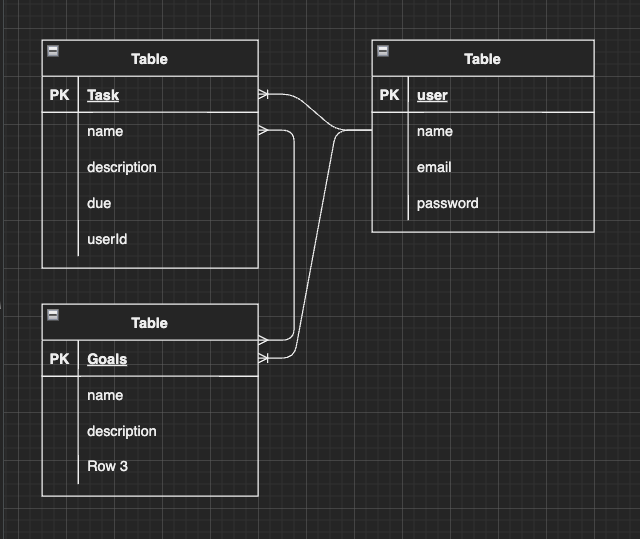
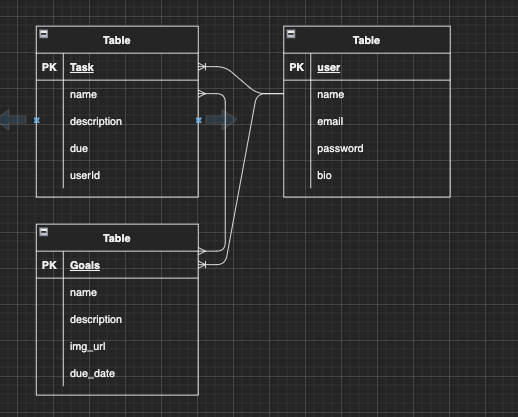
Updated ERD

diff --git a/controllers/users.js b/controllers/users.js
@@ -3,9 +3,11 @@ const express = require('express')
 const router = express.Router()
 const crypto = require('crypto-js')
 const bcrypt = require('bcrypt')
+const axios = require('axios')
 
 const db = require('../models')
 
+const API_KEY = process.env.APIKEY
 //routes
 
 //GET /users/new -- serves a form to create a new user
@@ -23,9 +25,8 @@ router.post('/', async (req, res) => {
             where: {
                 email: req.body.email
             }
-            //TODO: don't add plaintext passwords to the db 
-            //this will add the passwod to database if user isn't found
         })
+        //this will add the passwod to database if user isn't found
         if (!created) {
            console.log('user exists')
            res.redirect('/users/login?message=Please log in to continue.')     
@@ -44,16 +45,6 @@ router.post('/', async (req, res) => {
             //redirect to the user's profile
             res.redirect('/users/profile')
         }
-        //defunct now that I have hashing and encryted userId and passwords
-        //base this on info in req.body (form)
-        //TODO: redirect to login page if the user is found
-        //log the user in(store the user's id as a cookie in the browser)
-        //this will store a key value pair as a cookie
-        //must encrypt
-        // res.cookie('userId', newUser.id)
-        // //redirect to the home page(for now)
-        // res.redirect('/')
-
 
     } catch (err) {
         console.log(err)
@@ -127,6 +118,34 @@ router.get('/profile', (req, res) => {
         })
     }
 })
+
+
+router.get('/photo', (req, res) => {
+    try {
+        res.render('users/photo.ejs')
+    } catch (err) {
+        console.log(err)
+        // res.status(500).send('server error')
+    }
+})
+
+//post /goals/photos shows a photo on the page
+router.post('/photo', async (req, res) => {
+    try {
+        const img_url = `https://api.unsplash.com/search/photos?client_id=${API_KEY}&page=1&query=${req.body.photoSearch}>`
+        const response = await axios.get(img_url, {
+            headers: {"Accept-Encoding": "gzip,deflate,compress"}
+        })
+        // res.send('hello')
+        res.render('users/photo.ejs', {
+            photo: response.data.results
+        })
+    } catch (err) {
+        console.log(err)
+        res.send(err)
+    }
+})
+
 
 //export
 module.exports = router

diff --git a/migrations/20221223035947-create-goal.js b/migrations/20221223035947-create-goal.js
@@ -1,0 +1,34 @@
+'use strict';
+/** @type {import('sequelize-cli').Migration} */
+module.exports = {
+  async up(queryInterface, Sequelize) {
+    await queryInterface.createTable('goals', {
+      id: {
+        allowNull: false,
+        autoIncrement: true,
+        primaryKey: true,
+        type: Sequelize.INTEGER
+      },
+      name: {
+        type: Sequelize.STRING
+      },
+      description: {
+        type: Sequelize.STRING
+      },
+      img_url: {
+        type: Sequelize.STRING
+      },
+      createdAt: {
+        allowNull: false,
+        type: Sequelize.DATE
+      },
+      updatedAt: {
+        allowNull: false,
+        type: Sequelize.DATE
+      }
+    });
+  },
+  async down(queryInterface, Sequelize) {
+    await queryInterface.dropTable('goals');
+  }
+};

diff --git a/migrations/20221223040055-create-task.js b/migrations/20221223040055-create-task.js
@@ -1,0 +1,34 @@
+'use strict';
+/** @type {import('sequelize-cli').Migration} */
+module.exports = {
+  async up(queryInterface, Sequelize) {
+    await queryInterface.createTable('tasks', {
+      id: {
+        allowNull: false,
+        autoIncrement: true,
+        primaryKey: true,
+        type: Sequelize.INTEGER
+      },
+      name: {
+        type: Sequelize.STRING
+      },
+      description: {
+        type: Sequelize.STRING
+      },
+      due_date: {
+        type: Sequelize.DATE
+      },
+      createdAt: {
+        allowNull: false,
+        type: Sequelize.DATE
+      },
+      updatedAt: {
+        allowNull: false,
+        type: Sequelize.DATE
+      }
+    });
+  },
+  async down(queryInterface, Sequelize) {
+    await queryInterface.dropTable('tasks');
+  }
+};

diff --git a/models/goal.js b/models/goal.js
@@ -1,0 +1,25 @@
+'use strict';
+const {
+  Model
+} = require('sequelize');
+module.exports = (sequelize, DataTypes) => {
+  class goal extends Model {
+    /**
+     * Helper method for defining associations.
+     * This method is not a part of Sequelize lifecycle.
+     * The `models/index` file will call this method automatically.
+     */
+    static associate(models) {
+      // define association here
+    }
+  }
+  goal.init({
+    name: DataTypes.STRING,
+    description: DataTypes.STRING,
+    img_url: DataTypes.STRING
+  }, {
+    sequelize,
+    modelName: 'goal',
+  });
+  return goal;
+};

diff --git a/models/task.js b/models/task.js
@@ -1,0 +1,25 @@
+'use strict';
+const {
+  Model
+} = require('sequelize');
+module.exports = (sequelize, DataTypes) => {
+  class task extends Model {
+    /**
+     * Helper method for defining associations.
+     * This method is not a part of Sequelize lifecycle.
+     * The `models/index` file will call this method automatically.
+     */
+    static associate(models) {
+      // define association here
+    }
+  }
+  task.init({
+    name: DataTypes.STRING,
+    description: DataTypes.STRING,
+    due_date: DataTypes.DATE
+  }, {
+    sequelize,
+    modelName: 'task',
+  });
+  return task;
+};

diff --git a/index.js b/index.js
@@ -70,6 +70,7 @@ app.get('/', (req,res) => {
 })
 
 app.use("/users", require('./controllers/users'))
+// app.use("/goals", require('./controllers/goals'))
 
 //listen on port
 app.listen(PORT, () => {
